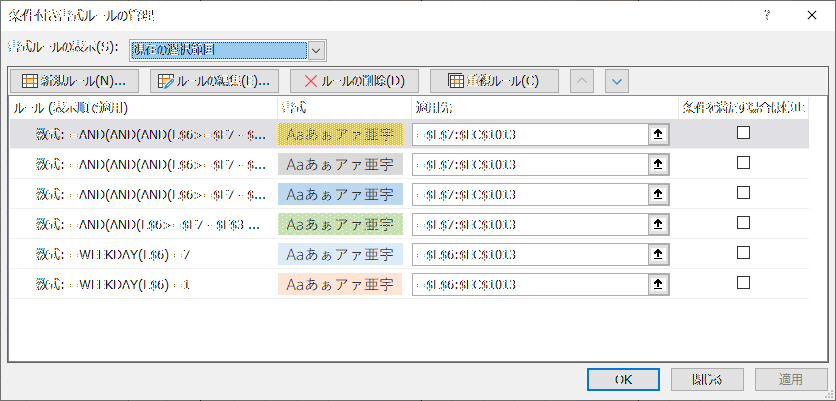
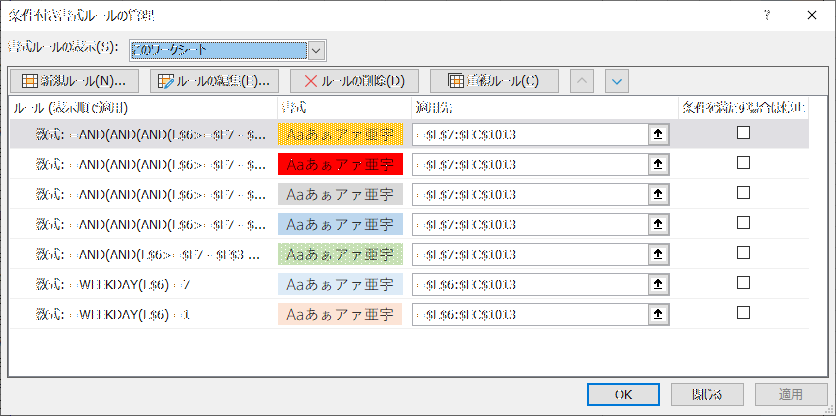
担当者未入力だと、チャートの色を赤に

diff --git a/README.md b/README.md
@@ -30,6 +30,7 @@
 * Excelの条件付き書式機能　( ホーム > 条件付き書式 > ルールの管理　> 書式ルールの表示: このワークシート) で色の管理を行っています。
 * 以下の図だと、上から順番に 以下の設定になっています。
     1. 開始と終了日が同じの場合はマイルストーンとして、セルの色をオレンジ色に
+    1. 担当者未入力だと、チャートの色を赤に
     1. 進捗が「完了」だと、チャートの色をグレーに
     1. 進捗が「作業中」だと、チャートの色を青に
     1. 進捗が 未設定 だと、チャートの色を緑に
